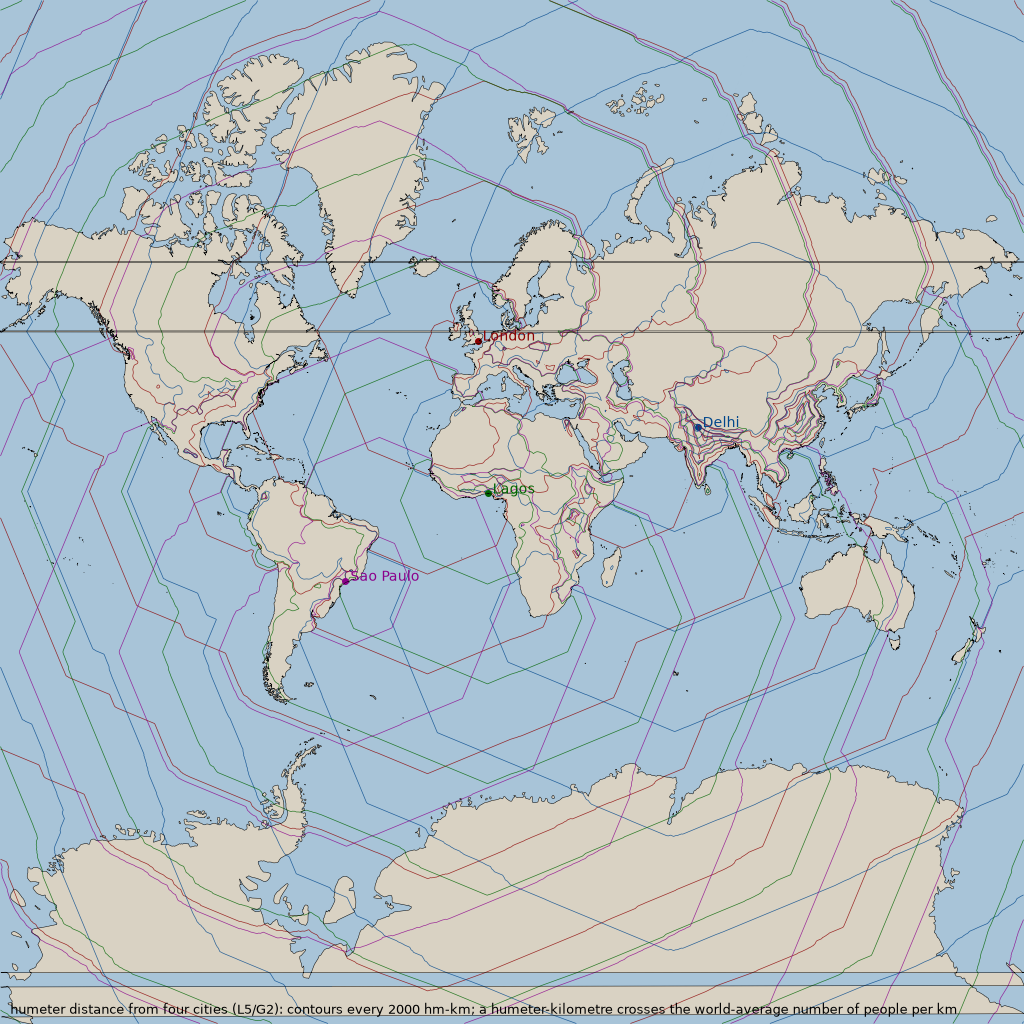
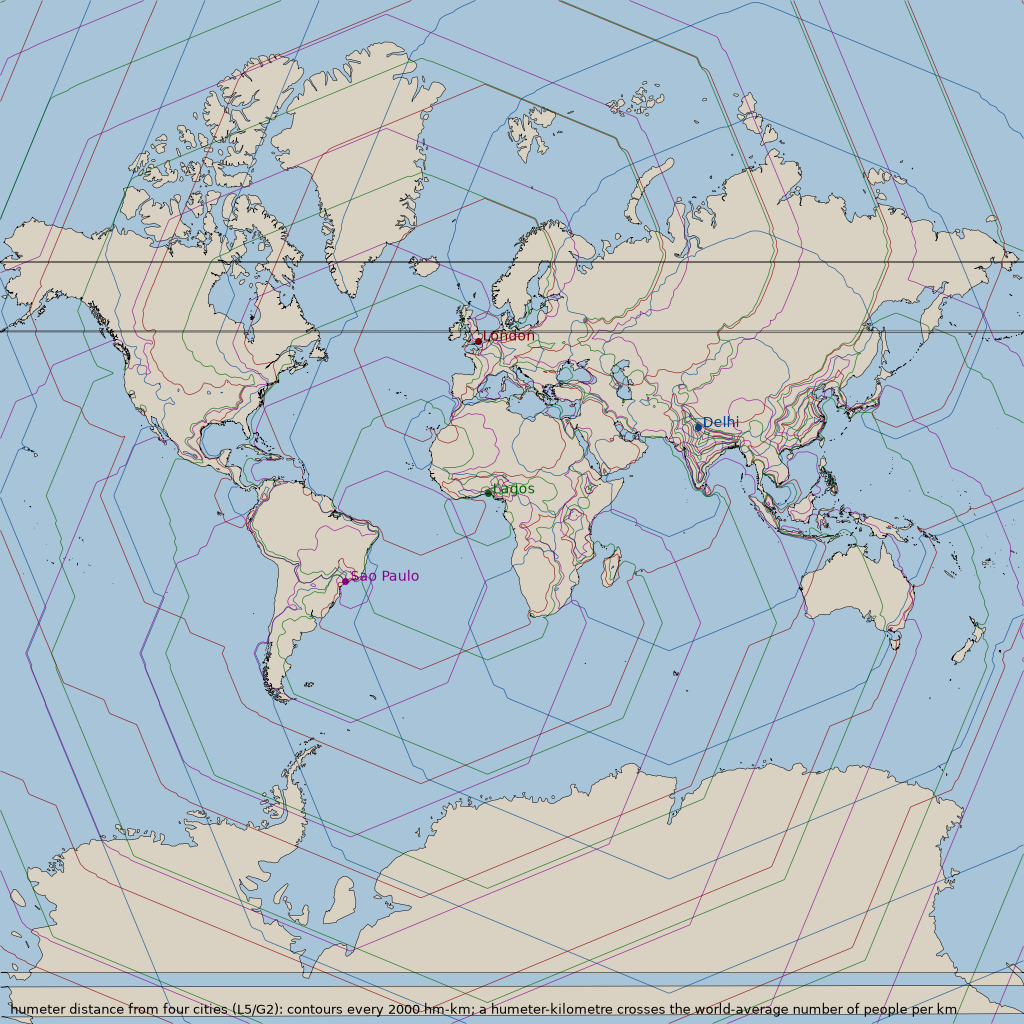
L9 per-capita lenses (light and road per person through today's warp); G2 geodesic fans; NaN-aware raster draw
Claude-Session: https://claude.ai/code/session_018LVA26xy76ttQpja1qSon5

diff --git a/src/lenses.py b/src/lenses.py
@@ -1,0 +1,119 @@
+"""Phase 7 lenses. A lens = (measure for AREA, measure for COLOUR, moment).
+    python src/lenses.py gdp <width>            L2/L4: the dollar world (area = GDP PPP 2015, Kummu 2018)
+    python src/lenses.py ratio <experiment>     L9: layers through today's warp as per-capita maps (lights, roads)
+    python src/lenses.py peak <experiment>      T6: epoch of maximum density painted on today's frame
+    python src/lenses.py lonely <width>         L6: the complement metric, area ~ 1/rho (where empty places are vast)
+"""
+import json, os, sys, time
+import numpy as np
+import rasterio
+from rasterio.enums import Resampling
+sys.path.insert(0, os.path.dirname(__file__))
+from hc import prep, diffusion, ot_poisson, render
+from run import ROOT, RAW, render_all
+from render_countries import country_ids, palette
+
+lon0, xb = -168.0, "wall"
+
+
+def _solve(name, P, grid, sigma_km, ocean_share, extra, log=print, shares=(0.95, 0.999)):
+    out = os.path.join(ROOT, "experiments", name); os.makedirs(out, exist_ok=True)
+    sigma_px = sigma_km / grid.km_per_px_equator()
+    ocean = render.land_mask(os.path.join(RAW, "ne_50m_land.geojson"), grid) == 0
+    t0 = time.time()
+    po, _ = ot_poisson.spectral_homotopy(P, list(shares), sigma_px, xb, iters=400, damping=0.5, log=lambda s: None, ocean=ocean, ocean_share=ocean_share)
+    X, Y = po.mesh(); m = diffusion.equalisation_metrics(po.rho0, X, Y); r, f = po.residual(); m.update({"residual": r, "cell_folds": f, "seconds": time.time() - t0})
+    params = {"name": name, "method": "ot_spectral_homotopy", "grid": "mercator", "lat_cut": grid.lat_cut, "lon0": lon0, "width": grid.W, "W": grid.W, "H": grid.H, "x_boundary": xb,
+              "floor": (1 - shares[-1]) / shares[-1], "share": shares[-1], "ocean_share": ocean_share, "sigma_km": sigma_km, "sigma_px": sigma_px, "vectors": "50m", **extra}
+    json.dump(params, open(os.path.join(out, "params.json"), "w"), indent=1); json.dump(m, open(os.path.join(out, "metrics.json"), "w"), indent=1)
+    np.savez_compressed(os.path.join(out, "mesh.npz"), X=X.astype(np.float32), Y=Y.astype(np.float32), rho0=po.rho0.astype(np.float32))
+    open(os.path.join(out, "log.txt"), "w").write(json.dumps(m) + "\n")
+    render_all(out, grid, X, Y, po.rho0, params, log=lambda s: None)
+    log(f"{name}: p05/p95 {m['log_ratio_popweighted_p05']:+.3f}/{m['log_ratio_popweighted_p95']:+.3f} folds {m['folds']} {time.time()-t0:.0f}s")
+    return out
+
+
+def read_lonlat_raster(path, band=1, out_w=8640):
+    with rasterio.open(path) as src:
+        h = int(round(src.height * out_w / src.width)); a = src.read(band, out_shape=(h, out_w), resampling=Resampling.average).astype(np.float64)
+        b = src.bounds; a = np.nan_to_num(a); nod = src.nodata
+        if nod is not None: a[np.isclose(a, nod)] = 0
+        a[a < 0] = 0
+        return a, (b.left, b.bottom, b.right, b.top)
+
+
+def gdp(width):
+    import netCDF4
+    ds = netCDF4.Dataset(os.path.join(RAW, "lenses", "GDP_PPP_1990_2015_5arcmin_v2.nc"))
+    var = [v for v in ds.variables if "GDP" in v or "gdp" in v][0]; v = ds.variables[var]
+    a = np.array(v[-1], dtype=np.float64); a = np.nan_to_num(a); a[a < 0] = 0     # last time slice = 2015
+    lat = ds.variables[[k for k in ds.variables if k.lower().startswith("lat")][0]][:]
+    if lat[0] < lat[-1]: a = a[::-1]
+    grid = prep.Grid("mercator", width, lon0=lon0); P, _ = prep.to_grid(a, (-180, -90, 180, 90), grid)
+    print(f"GDP PPP 2015 total {a.sum()/1e12:.1f} trillion (2011 USD)")
+    _solve(f"L4_gdp_{width}", P, grid, 60.0, 0.05, {"source": "Kummu, Taka & Guillaume 2018, GDP PPP 2015, 5 arcmin, CC0", "honesty": "downscaled from national and subnational statistics", "measure": "GDP PPP 2015"})
+
+
+def lonely(width):
+    from run import get_lonlat, NCOLS
+    from hc.diffusion import prepare_density
+    grid = prep.Grid("mercator", width, lon0=lon0)
+    factor = max(d for d in prep.divisors(NCOLS) if d <= max(1, NCOLS // (2 * width)))
+    counts, bounds = get_lonlat(factor); P, _ = prep.to_grid(counts, bounds, grid)
+    sigma_px = 60.0 / grid.km_per_px_equator()
+    rho = prepare_density(P, 0.001, sigma_px, xb)          # people, smoothed, mean 1
+    ocean = render.land_mask(os.path.join(RAW, "ne_50m_land.geojson"), grid) == 0
+    inv = 1.0 / np.maximum(rho, 1e-3); inv[ocean] = 0.0   # the loneliness measure on land: 1/rho
+    _solve(f"L6_lonely_{width}", inv, grid, 0.0, 0.05, {"source": "1 / population density (GHS-POP 2025, 60 km smoothing), land only", "honesty": "the complement metric", "measure": "1/rho"}, shares=(0.95, 0.99))
+
+
+def ratio(exp):
+    out = os.path.join(ROOT, "experiments", exp); p = json.load(open(os.path.join(out, "params.json")))
+    z = np.load(os.path.join(out, "mesh.npz")); X, Y = z["X"].astype(np.float64), z["Y"].astype(np.float64)
+    grid = prep.Grid(p["grid"], p["W"], p["lat_cut"], lon0=p.get("lon0", -180.0)); wrap = p.get("x_boundary") == "periodic"
+    coast = render.lines_from_geojson(os.path.join(RAW, "ne_50m_coastline.geojson"), grid)
+    # night lights: radiance-like value per cell (mean over the cell), through the warp -> light per person
+    bm, bb = read_lonlat_raster(os.path.join(RAW, "lenses", "BlackMarble_2016_3km_geo.tif"), band=1)
+    L, _ = prep.to_grid(bm, bb, grid)  # brightness summed per source cell
+    from run import get_lonlat, NCOLS
+    factor = max(d for d in prep.divisors(NCOLS) if d <= max(1, NCOLS // (2 * grid.W)))
+    counts, bounds = get_lonlat(factor); Pp, _ = prep.to_grid(counts, bounds, grid)   # people per source cell
+    ocean = render.land_mask(os.path.join(RAW, "ne_50m_land.geojson"), grid) == 0
+    ref = L[~ocean].sum() / Pp[~ocean].sum()   # world-average light per person
+    pc = L / np.maximum(Pp, 50.0)               # light per person per source cell (cells under 50 people are noise)
+    v = np.log10((pc + 0.02 * ref) / ref); v[ocean] = np.nan; v[Pp < 50] = np.nan   # 0 = world average, +-1 = 10x
+    render.draw(X, Y, np.ones(L.shape, np.uint8), os.path.join(out, "lens_lights.png"), min(grid.W, 4096), coast=coast, raster=v, cmap="RdBu_r", vmin=-1.5, vmax=1.5,
+                title="night lights (Black Marble 2016) through the population warp = LIGHT PER PERSON (L9). White = world average, red = 10x more light per person, blue = 10x less", wrap=wrap)
+    # roads: GRIP4 density (m per km2) -> road length per output cell -> road per person
+    with open(os.path.join(RAW, "grip4", "grip4_total_dens_m_km2.asc")) as f:
+        hdr = {}; 
+        for _ in range(6):
+            k, v = f.readline().split(); hdr[k.lower()] = float(v)
+    R = np.loadtxt(os.path.join(RAW, "grip4", "grip4_total_dens_m_km2.asc"), skiprows=6); R[R == hdr.get("nodata_value", -9999)] = 0; R[R < 0] = 0
+    cs = hdr["cellsize"]; nr, nc = R.shape; left = hdr["xllcorner"]; bottom = hdr["yllcorner"]
+    lat_c = bottom + (nr - np.arange(nr) - 0.5) * cs
+    area = (cs * 111.32) ** 2 * np.cos(np.radians(lat_c))[:, None]
+    Rk = R * area / 1000.0  # km of road per source cell
+    Rg, _ = prep.to_grid(Rk, (left, bottom, left + nc * cs, bottom + nr * cs), grid)
+    refr = Rg[~ocean].sum() / Pp[~ocean].sum()
+    pr = Rg / np.maximum(Pp, 50.0)
+    vr = np.log10((pr + 0.02 * refr) / refr); vr[ocean] = np.nan; vr[Pp < 50] = np.nan
+    render.draw(X, Y, np.ones(Rg.shape, np.uint8), os.path.join(out, "lens_roads.png"), min(grid.W, 4096), coast=coast, raster=vr, cmap="RdBu_r", vmin=-1.5, vmax=1.5,
+                title="road length (GRIP4) through the population warp = ROAD PER PERSON (L9). White = world average, red = 10x more, blue = 10x less", wrap=wrap)
+    print("wrote lens_lights.png, lens_roads.png in", out)
+
+
+def peak(exp):
+    out = os.path.join(ROOT, "experiments", exp); p = json.load(open(os.path.join(out, "params.json")))
+    z = np.load(os.path.join(out, "mesh.npz")); X, Y = z["X"].astype(np.float64), z["Y"].astype(np.float64)
+    grid = prep.Grid(p["grid"], p["W"], p["lat_cut"], lon0=p.get("lon0", -180.0))
+    pk = np.load(os.path.join(ROOT, "experiments", "timeline", f"T6_peak_year_{grid.W}.npy")).astype(np.float64)
+    coast = render.lines_from_geojson(os.path.join(RAW, "ne_50m_coastline.geojson"), grid)
+    v = np.where(np.isnan(pk), 1700, pk)
+    render.draw(X, Y, np.ones(v.shape, np.uint8), os.path.join(out, "lens_peak_year.png"), min(grid.W, 4096), coast=coast, raster=v, cmap="viridis", vmin=1700, vmax=2023, title="epoch of maximum population per cell, HYDE 3.3 (T6): yellow = still growing, dark = peaked long ago", wrap=p.get("x_boundary") == "periodic")
+    print("wrote lens_peak_year.png")
+
+
+if __name__ == "__main__":
+    cmd = sys.argv[1]
+    {"gdp": lambda: gdp(int(sys.argv[2])), "ratio": lambda: ratio(sys.argv[2]), "peak": lambda: peak(sys.argv[2]), "lonely": lambda: lonely(int(sys.argv[2]))}[cmd]()

diff --git a/src/geometry.py b/src/geometry.py
@@ -22,7 +22,7 @@ factor = max(d for d in prep.divisors(NCOLS) if d <= max(1, NCOLS // (2 * width)
 counts, bounds = get_lonlat(factor); P, _ = prep.to_grid(counts, bounds, grid)
 sigma_px = 60.0 / grid.km_per_px_equator()
 ocean = render.land_mask(os.path.join(RAW, "ne_50m_land.geojson"), grid) == 0
-rho = prepare_density(P, 0.001, max(sigma_px, 2.0), "wall", ocean=ocean, ocean_share=0.05)
+rho = prepare_density(P, 0.001, max(sigma_px, 2.0), "wall")   # no ocean buffer: empty land and sea alike
 u = 0.5 * np.log(rho)                          # the pure humeter metric, for the curvature
 u_g = 0.5 * np.log(0.2 + 0.8 * rho)            # a tempered metric for the geodesic pictures: empty regions
                                                # at the floor have wild log-gradients that only add noise
@@ -41,7 +41,7 @@ Ks = ndimage.gaussian_filter(K, 1.0)
 lim = np.percentile(np.abs(Ks[~ocean]), 98)
 img = matplotlib.colormaps["RdBu_r"](np.clip(Ks / lim, -1, 1) / 2 + 0.5)[..., :3]
 fig, ax = fig_geo("curvature"); ax.imshow(img, extent=(0, W, H, 0), interpolation="nearest")
-ax.add_collection(LineCollection([l for l in coast], colors="#000", linewidths=0.4))
+ax.add_collection(LineCollection([sg for l in coast for sg in render.split_seam(l, W)], colors="#000", linewidths=0.4))
 ax.text(0.01, 0.01, f"Gaussian curvature of the population manifold (G4), +-{lim:.2g} per px^2; red positive (hilltops), blue negative (saddles between cities)", transform=ax.transAxes, fontsize=9)
 fig.savefig(os.path.join(out, "curvature.png"), dpi=100); plt.close(fig)
 
@@ -63,11 +63,13 @@ def shoot(p0, v0, steps, h=1.0):
         v = v / np.linalg.norm(v, axis=1, keepdims=True)  # unit speed in the flat parameter; direction is what matters
         path.append(p.copy())
     return np.stack(path, 1)  # (n, steps+1, 2)
-n_lines = 24
-starts_v = np.stack([np.full(n_lines, 0.5), np.linspace(0, W, n_lines + 2)[1:-1]], 1)[:, ::-1]  # top edge, heading down
-paths_v = shoot(starts_v, np.tile([[0.0, 1.0]], (n_lines, 1)), int(H * 1.1))
-starts_h = np.stack([np.full(n_lines, 0.5), np.linspace(0, H, n_lines + 2)[1:-1]], 1)  # left edge, heading right
-paths_h = shoot(starts_h, np.tile([[1.0, 0.0]], (n_lines, 1)), int(W * 1.1))
+# fans of geodesics from three cities: the straight lines of the humeter world
+fan_cities = {"London": (-0.13, 51.5), "Delhi": (77.2, 28.6), "Sao Paulo": (-46.6, -23.5)}
+fan_paths, fan_cols = [], []
+for nm, colr in zip(fan_cities, ("#8b0000", "#00468b", "#8b008b")):
+    cx, cy = grid.xy(*fan_cities[nm]); n_dir = 48; th = np.linspace(0, 2 * np.pi, n_dir, endpoint=False)
+    p0 = np.tile([[float(cx), float(cy)]], (n_dir, 1)); v0 = np.stack([np.cos(th), np.sin(th)], 1)
+    fan_paths.append(shoot(p0, v0, int(W * 0.6), h=1.0)); fan_cols.append(colr)
 def clip_paths(paths):
     segs = []
     for pth in paths:
@@ -78,9 +80,12 @@ def clip_paths(paths):
 fig, ax = fig_geo("geodesics")
 land = render.land_mask(os.path.join(RAW, "ne_50m_land.geojson"), grid)
 ax.imshow(np.where(land[..., None] > 0, render.LAND, render.OCEAN), extent=(0, W, H, 0), interpolation="nearest")
-ax.add_collection(LineCollection(clip_paths(paths_v) + clip_paths(paths_h), colors="#8b0000", linewidths=0.7, alpha=0.8))
-ax.add_collection(LineCollection([l for l in coast], colors="#000", linewidths=0.35))
-ax.text(0.01, 0.01, "geodesic graticule of the population metric (G2): straight lines of the humeter world, bending around cities like lensing", transform=ax.transAxes, fontsize=9)
+for pths, colr in zip(fan_paths, fan_cols):
+    ax.add_collection(LineCollection(clip_paths(pths), colors=colr, linewidths=0.6, alpha=0.75))
+for nm, colr in zip(fan_cities, fan_cols):
+    cx, cy = grid.xy(*fan_cities[nm]); ax.plot(cx, cy, "o", color=colr, ms=4); ax.text(cx + 6, cy, nm, color=colr, fontsize=10)
+ax.add_collection(LineCollection([sg for l in coast for sg in render.split_seam(l, W)], colors="#000", linewidths=0.35))
+ax.text(0.01, 0.01, "geodesics of the population metric (G2) fanning out from three cities: the straight lines of the humeter world, bending away from dense regions like lensing", transform=ax.transAxes, fontsize=9)
 fig.savefig(os.path.join(out, "geodesics.png"), dpi=100); plt.close(fig)
 # G2b / L5: humeter distance from a city, by Dijkstra on the grid graph with the tempered metric
 from scipy.sparse import coo_matrix
@@ -110,7 +115,7 @@ for nm, colr in zip(cities_ll, ("#8b0000", "#00468b", "#006400", "#8b008b")):
     segs = [np.asarray(sg) for lv in levels for sg in gen.lines(lv) if len(sg) > 3]
     ax.add_collection(LineCollection(segs, colors=colr, linewidths=0.5, alpha=0.8))
     cx, cy = grid.xy(*cities_ll[nm]); ax.plot(cx, cy, "o", color=colr, ms=4); ax.text(cx + 5, cy, nm, color=colr, fontsize=10)
-ax.add_collection(LineCollection([l for l in coast], colors="#000", linewidths=0.35))
+ax.add_collection(LineCollection([sg for l in coast for sg in render.split_seam(l, W)], colors="#000", linewidths=0.35))
 ax.text(0.01, 0.01, "humeter distance from four cities (L5/G2): contours every 2000 hm-km; a humeter-kilometre crosses the world-average number of people per km", transform=ax.transAxes, fontsize=9)
 fig.savefig(os.path.join(out, "distance.png"), dpi=100); plt.close(fig)
 table = {}

diff --git a/src/hc/render.py b/src/hc/render.py
@@ -255,10 +255,13 @@ def draw(X, Y, mask, out_png, out_w=None, coast=(), borders=(), grat=(), mgrid=(
         cov = splat(mask.astype(np.float64), X, Y, (oh, ow), wrap=wrap)
         img = OCEAN[None, None, :] * (1 - cov[..., None]) + LAND[None, None, :] * cov[..., None]
     else:
-        v = splat(raster.astype(np.float64), X, Y, (oh, ow), wrap=wrap)
-        vmin = np.nanmin(v) if vmin is None else vmin
-        vmax = np.nanmax(v) if vmax is None else vmax
+        r = np.asarray(raster, np.float64); valid = np.isfinite(r)
+        v = splat(np.where(valid, r, 0.0), X, Y, (oh, ow), wrap=wrap, weights=valid.astype(np.float64))
+        cov = splat(valid.astype(np.float64), X, Y, (oh, ow), wrap=wrap)
+        vmin = np.nanmin(v[cov > 0.5]) if vmin is None else vmin
+        vmax = np.nanmax(v[cov > 0.5]) if vmax is None else vmax
         img = matplotlib.colormaps[cmap]((v - vmin) / (vmax - vmin + 1e-12))[..., :3]
+        img[cov < 0.5] = OCEAN
     fig, ax = _figure(oh, ow, "white")
     ax.imshow(img, extent=(0, ow, oh, 0), interpolation="nearest")
     if mgrid:
